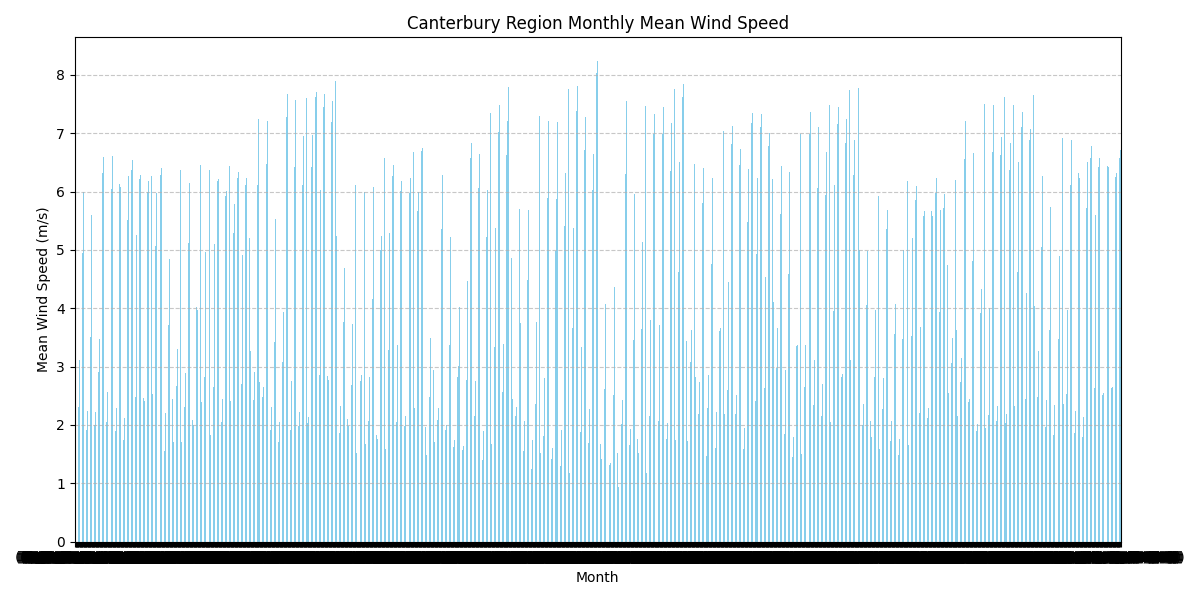
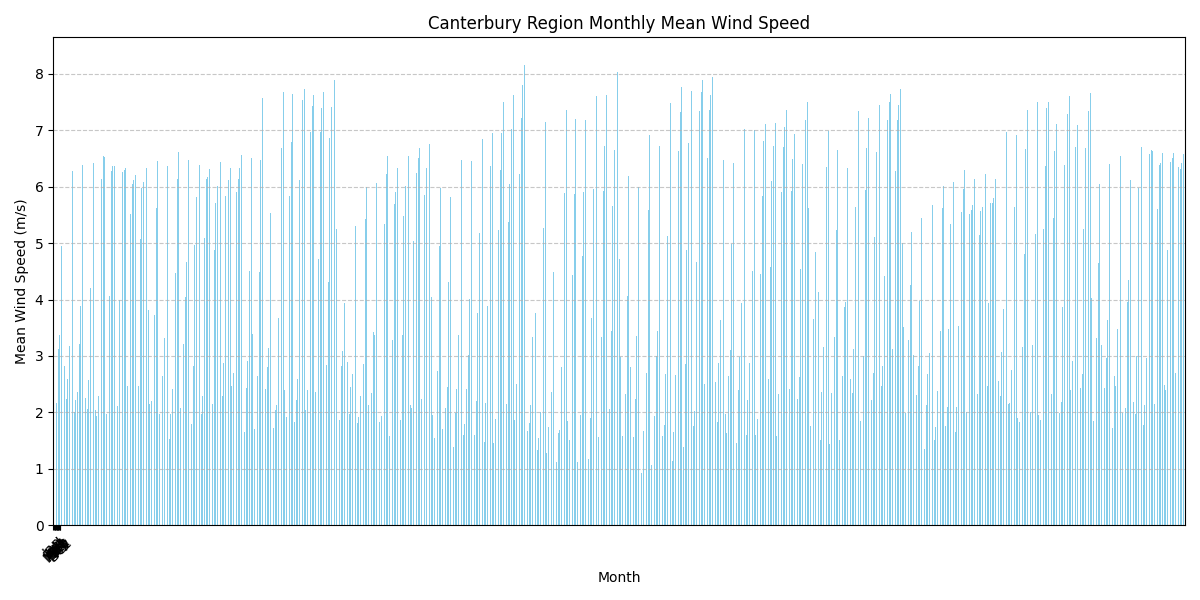
added licence and updated climate_analysis.py

diff --git a/era5_climate_analysis.py b/era5_climate_analysis.py
@@ -70,7 +70,8 @@ monthly_df['Mean_Wind_Speed'].plot(kind='bar', color='skyblue')
 plt.title('Canterbury Region Monthly Mean Wind Speed')
 plt.ylabel('Mean Wind Speed (m/s)')
 plt.xlabel('Month')
-plt.xticks(rotation=0)
+month_labels = ['Jan', 'Feb', 'Mar', 'Apr', 'May', 'Jun', 'Jul', 'Aug', 'Sep', 'Oct', 'Nov', 'Dec']
+plt.xticks(ticks=np.arange(len(month_labels)), labels=month_labels, rotation=45) # ラベルが重ならないように45度回転
 plt.grid(axis='y', linestyle='--', alpha=0.7)
 plt.tight_layout()
 monthly_wind_bar_path = "plots/monthly_wind_speed_bar.png"
@@ -147,7 +148,7 @@ canterbury_total_rainfall_map.plot.pcolormesh(
     ax=ax,
     transform=ccrs.PlateCarree(),
     cmap='Blues',
-    norm=LogNorm(),
+    # norm=LogNorm(),
     cbar_kwargs={'label': 'Total Precipitation (mm)'}
 )
 ax.coastlines()

diff --git a/README.md b/README.md
@@ -160,6 +160,28 @@ The `download_era5.py` script is configured to download the following specific p
     *   East: 180°
 *   **Format:** NetCDF
 
+### Variable Selection Rationale
+
+The following variables were selected for download and analysis due to their fundamental importance in understanding regional climate and weather patterns. From these raw variables, key climate indicators are calculated to provide actionable insights:
+
+*   **2m Temperature (`2m_temperature`):**
+    *   **Why chosen:** A primary indicator of atmospheric heat content, directly impacting human comfort, agricultural conditions, and ecosystem health.
+    *   **Calculations & Utility:**
+        *   **Annual Mean Temperature Map:** Calculates the average 2m temperature over the entire year for each geographical point. This map is crucial for identifying long-term temperature patterns and regional climate zones, aiding in urban planning, agricultural suitability assessments, and understanding general climate trends.
+        *   **Monthly Temperature Distribution (Violin Plot):** Shows the distribution of 2m temperatures for each month. This helps in understanding seasonal temperature cycles, identifying temperature variability within months, and assessing the likelihood of extreme temperatures, which is vital for seasonal planning and risk management.
+
+*   **10m U-component of Wind (`10m_u_component_of_wind`) & 10m V-component of Wind (`10m_v_component_of_wind`):**
+    *   **Why chosen:** These components represent the eastward (u) and northward (v) wind velocities at 10 meters above the surface. They are fundamental for deriving total wind speed and direction.
+    *   **Calculations & Utility:**
+        *   **Wind Speed Calculation:** Total wind speed is calculated from these components using the formula `sqrt(u^2 + v^2)`.
+        *   **Monthly Mean Wind Speed (Bar Chart):** Displays the average wind speed for each month. This helps in identifying seasonal wind patterns, crucial for wind energy assessment, agricultural planning (e.g., irrigation, crop protection), and understanding local weather phenomena.
+        *   **Wind Speed Distribution (Violin Plot):** Illustrates the overall distribution of wind speeds. This provides insights into the frequency of different wind speeds, useful for structural engineering, aviation, and assessing the consistency of wind resources.
+
+*   **Total Precipitation (`total_precipitation`):**
+    *   **Why chosen:** Represents the total amount of liquid and frozen water falling to the Earth's surface, a critical component of the water cycle.
+    *   **Calculations & Utility:**
+        *   **Annual Total Precipitation Map:** Calculates the accumulated precipitation over the entire year for each geographical point. This map is vital for water resource management, agricultural planning, drought monitoring, and flood risk assessment, providing a clear picture of water availability across the region.
+
 ---
 
 ## License (for Code)
